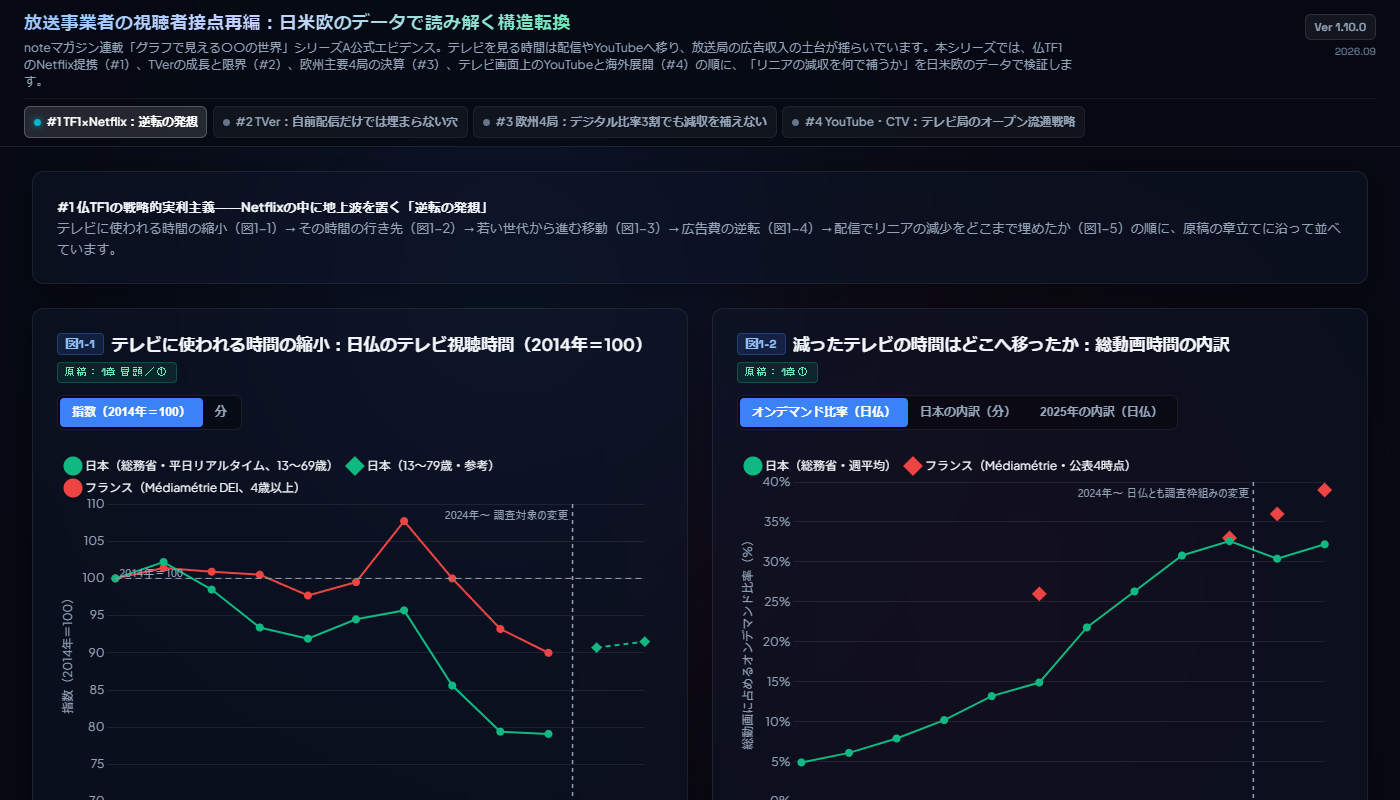
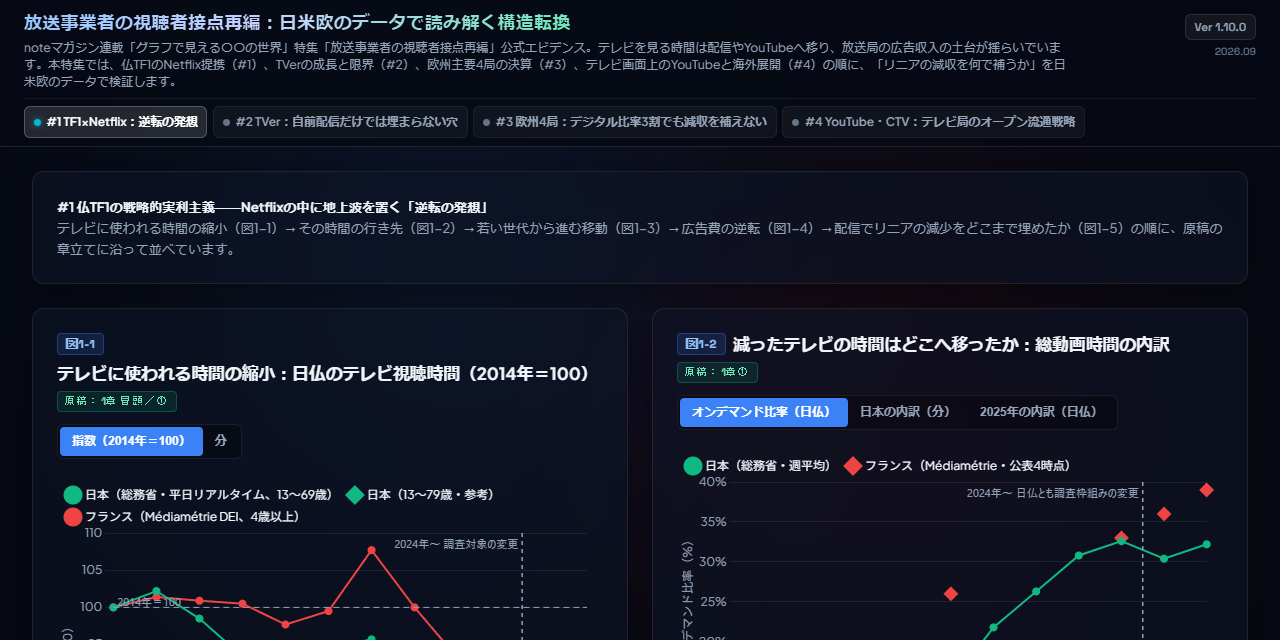
update: fix dashboard title and regenerate thumbnails without 'Series A'

diff --git a/index.html b/index.html
@@ -3,19 +3,19 @@
 <head>
     <meta charset="UTF-8">
     <meta name="viewport" content="width=device-width, initial-scale=1.0">
-    <title>シリーズA エビデンス・ダッシュボード v1.10.0</title>
-    <meta name="description" content="noteマガジン連載「グラフで見える〇〇の世界」シリーズA「視聴者接点の再編」公式エビデンス。原稿の図番号と対応したダッシュボード。">
+    <title>放送事業者の視聴者接点再編 エビデンス・ダッシュボード v1.10.0</title>
+    <meta name="description" content="noteマガジン連載「グラフで見える〇〇の世界」特集「放送事業者の視聴者接点再編」公式エビデンス。原稿の図番号と対応したダッシュボード。">
     <meta name="author" content="naohisastry">
     
     <!-- OGP Settings -->
     <meta property="og:site_name" content="グラフで見える〇〇の世界 (Naohisa Hashimoto Media Architecture Research)">
-    <meta property="og:title" content="シリーズA エビデンス・ダッシュボード v1.10.0">
-    <meta property="og:description" content="noteマガジン連載「グラフで見える〇〇の世界」シリーズA「視聴者接点の再編」公式エビデンス。原稿の図番号と対応したダッシュボード。">
+    <meta property="og:title" content="放送事業者の視聴者接点再編 エビデンス・ダッシュボード v1.10.0">
+    <meta property="og:description" content="noteマガジン連載「グラフで見える〇〇の世界」特集「放送事業者の視聴者接点再編」公式エビデンス。原稿の図番号と対応したダッシュボード。">
     <meta property="og:url" content="https://naohisastry.github.io/broadcaster-audience-shift-dashboard/">
     <meta property="og:image" content="https://naohisastry.github.io/broadcaster-audience-shift-dashboard/social-preview.png">
     <meta name="twitter:card" content="summary_large_image">
-    <meta name="twitter:title" content="シリーズA エビデンス・ダッシュボード v1.10.0">
-    <meta name="twitter:description" content="noteマガジン連載「グラフで見える〇〇の世界」シリーズA「視聴者接点の再編」公式エビデンス。原稿の図番号と対応したダッシュボード。">
+    <meta name="twitter:title" content="放送事業者の視聴者接点再編 エビデンス・ダッシュボード v1.10.0">
+    <meta name="twitter:description" content="noteマガジン連載「グラフで見える〇〇の世界」特集「放送事業者の視聴者接点再編」公式エビデンス。原稿の図番号と対応したダッシュボード。">
     <meta name="twitter:image" content="https://naohisastry.github.io/broadcaster-audience-shift-dashboard/social-preview.png">
 
     <link rel="preconnect" href="https://fonts.googleapis.com">
@@ -23,7 +23,7 @@
     <link href="https://fonts.googleapis.com/css2?family=Plus+Jakarta+Sans:wght@300;400;500;600;700;800&family=Space+Grotesk:wght@500;600;700&display=swap" rel="stylesheet">
     <style>
 
-/* Premium Dark Theme Stylesheet for Series A #1 Dashboard */
+/* Premium Dark Theme Stylesheet for Broadcaster Audience Shift Dashboard */
 :root {
     --bg-main: #060913;
     --bg-card: rgba(13, 20, 38, 0.55);
@@ -811,7 +811,7 @@ a.nav-tab-btn { text-decoration: none; }
             <div class="header-row-main">
                 <div class="header-text-area">
                     <h1><span class="gradient-title">放送事業者の視聴者接点再編：日米欧のデータで読み解く構造転換</span></h1>
-                    <p class="header-desc">noteマガジン連載「グラフで見える〇〇の世界」シリーズA公式エビデンス。テレビを見る時間は配信やYouTubeへ移り、放送局の広告収入の土台が揺らいでいます。本シリーズでは、仏TF1のNetflix提携（#1）、TVerの成長と限界（#2）、欧州主要4局の決算（#3）、テレビ画面上のYouTubeと海外展開（#4）の順に、「リニアの減収を何で補うか」を日米欧のデータで検証します。</p>
+                    <p class="header-desc">noteマガジン連載「グラフで見える〇〇の世界」特集「放送事業者の視聴者接点再編」公式エビデンス。テレビを見る時間は配信やYouTubeへ移り、放送局の広告収入の土台が揺らいでいます。本特集では、仏TF1のNetflix提携（#1）、TVerの成長と限界（#2）、欧州主要4局の決算（#3）、テレビ画面上のYouTubeと海外展開（#4）の順に、「リニアの減収を何で補うか」を日米欧のデータで検証します。</p>
                 </div>
                 <div class="header-version">
                     <span class="version-tag">Ver 1.10.0</span>

diff --git a/data_v1100.js b/data_v1100.js
@@ -1,5 +1,5 @@
 // ============================================================
-// シリーズA ダッシュボード v1.10.0 — データ正本（single source of truth）
+// 放送事業者の視聴者接点再編 ダッシュボード v1.10.0 — データ正本（single source of truth）
 // 図・注記・表に表示する数値は、すべてこのファイルから読み込む。
 // 値を変えるときはここだけを直す。注記の文中数値もここから差し込まれる。
 // 作成: 2026-09-28 Claude Cowork（一次資料照合済み。出典は各ブロックの source）

diff --git a/app_v1100.js b/app_v1100.js
@@ -1,4 +1,4 @@
-// シリーズA ダッシュボード v1.10.0 — 描画ロジック
+// 放送事業者の視聴者接点再編 ダッシュボード v1.10.0 — 描画ロジック
 // 数値はすべて window.SERIES_A_DATA（data_v1100.js）から読む。ここに数値を直書きしない。
 (function () {
   const D = window.SERIES_A_DATA;
